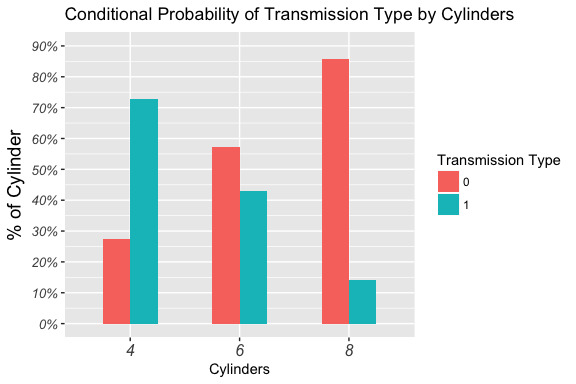
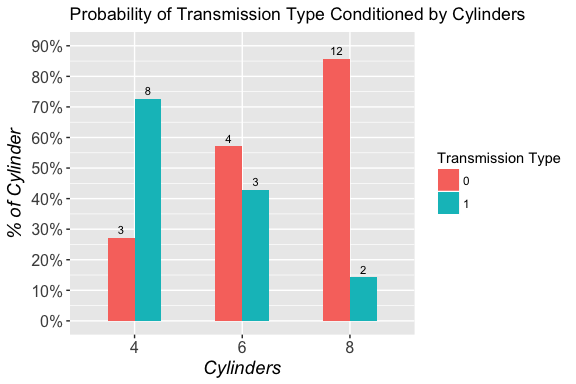
Updated last bar plot.

diff --git a/Graphing_Examples_with_ggplot2.md b/Graphing_Examples_with_ggplot2.md
@@ -11,6 +11,7 @@ January 21, 2018
     -   [Plotting Relative Frequency by Category](#plotting-relative-frequency-by-category)
     -   [Plotting Joint Distributions of 2 Categorical Variables](#plotting-joint-distributions-of-2-categorical-variables)
     -   [Plotting Conditional Distribution of 2 Categorical Variables](#plotting-conditional-distribution-of-2-categorical-variables)
+    -   [Make the plot Presentable](#make-the-plot-presentable)
     -   [Plots for many categories](#plots-for-many-categories)
 
 Introduction
@@ -25,10 +26,10 @@ The grammar of graphics philosophy is largely inspired by the book **Grammar of 
 
 [Rick Scavetta](https://twitter.com/rick_scavetta?lang=en) in his course [Data visualisation with ggplot2](https://www.datacamp.com/courses/data-visualization-with-ggplot2-1) provides a great outline of major ggplot grammatical components to consider when designing a statistical graph. The grammar of graphics is basically composed of 2 principles:
 
-1.  Graphics are distinct layers of **grammatical elements** (ex. the data, geometries). These are like the adjectives and nouns of a language.
+1.  Graphs are distinct layers of **grammatical elements**.The data and geometric shapes applied to them are like the nouns and adjectives of the grammar of graphics.
 2.  Useful plots are built around appropriate **aesthetic mappings**. These mappings are like the rules for assembling the graphical vocabulary into something meaningful.
 
-According to Scavetta, there are 7 grammatical elements. The first 3 are essential for any plot to render. The latter 4 are optional, but enable better fine tuning of the nuances of the plot.
+There are 7 grammatical elements. The first 3 are essential for any plot using `ggplot2` to render. The last 4 are optional, but enable important customization and tweaking of plots.
 
 <table class="table table-striped table-hover" style="margin-left: auto; margin-right: auto;">
 <thead>
@@ -188,41 +189,14 @@ cars %>%
         geom_bar(stat = "identity")
 ```
 
-Having mapped the data to some aesthetics and a bar geometric figure, some other things you might want to fidget like detailed aesthetics, coordinates, themes (these are to show how the grammatical elements combine together). These aren't necessarily good ways to do a plot, but examples of how you can refine it using the grammatical elements of `ggplot2`.
-
--   add a title
--   re-arrange bars in ascending or descending order
--   change the width of the bars
--   change the scale of the y-axis to count up to 20, by 5.
--   flip the x-axis scale to be at the top of the graph.
--   Remove the x-axis title label. The boss is strange, doesn't seem to want an axis title here.
--   change size of axis titles. Say the boss likes size 14 axis titles!
--   change the style of of axis labels to italic and size 12 tick mark labels!
--   Say the boss wants the x-axis tick labels to be in red.
--   flip the coordinates so the bars are horizontal
-
-``` r
-ggplot(cars, aes(x = forcats::fct_infreq(factor(cyl)))) + # change order of bars with fct_infreq from forcats. 
-    geom_bar(width = .5) + # default bar width = 0.9
-    labs(x = NULL,
-         title = "Car Frequency by Cylinder type") +
-    scale_y_continuous(limits = c(0, 20), breaks = seq(0, 20, 5)) +
-    scale_x_discrete(position = "top") +
-    theme(axis.title.y = element_text(size = 14)) +
-    theme(axis.text.y = element_text(face = "italic", size = 12)) +
-    theme(axis.text.x = element_text(face = "italic", size = 12, color = "darkred")) +
-    coord_flip()
-```
-
-![](Graphing_Examples_with_ggplot2_files/figure-markdown_github/unnamed-chunk-6-1.png)
-
 ### Plotting Relative Frequency by Category
 
-We'll digress from the above and continue to develop the original plot's aesthetics, let's loook at:
+To continue to develop the plot to describe the data, let's loook at:
 
 -   relative frequency of cylinders instead of nominal frequency
--   let's convert the y-axis scales to percent instead of proportion
+-   convert the y-axis scales to percent instead of proportion
 -   update the y-axis label
+-   shorten the width of the bars to reduce unnecessary ink
 
 ``` r
 ggplot(cars, aes(x = forcats::fct_infreq(factor(cyl)), 
@@ -234,7 +208,7 @@ ggplot(cars, aes(x = forcats::fct_infreq(factor(cyl)),
     scale_y_continuous(labels = scales::percent) # from scales library
 ```
 
-![](Graphing_Examples_with_ggplot2_files/figure-markdown_github/unnamed-chunk-7-1.png)
+![](Graphing_Examples_with_ggplot2_files/figure-markdown_github/unnamed-chunk-6-1.png)
 
 The following code generates identical plot as above, but pre-processes the relative frequencies earlier in a new data frame outside of `ggplot2`. This coded is provided as an alternative, but neither way is better than the other. It's all a personal preference and shows some of the flexibility of the library's interface.
 
@@ -253,7 +227,7 @@ cars %>%
         scale_y_continuous(labels = scales::percent) 
 ```
 
-![](Graphing_Examples_with_ggplot2_files/figure-markdown_github/unnamed-chunk-8-1.png)
+![](Graphing_Examples_with_ggplot2_files/figure-markdown_github/unnamed-chunk-7-1.png)
 
 ### Plotting Joint Distributions of 2 Categorical Variables
 
@@ -296,7 +270,7 @@ ggplot(cars, aes(x = forcats::fct_infreq(factor(cyl)),
     scale_y_continuous(labels = scales::percent) 
 ```
 
-![](Graphing_Examples_with_ggplot2_files/figure-markdown_github/unnamed-chunk-10-1.png)
+![](Graphing_Examples_with_ggplot2_files/figure-markdown_github/unnamed-chunk-9-1.png)
 
 We have a vizualization of the joint distribution of the relative frequency cars by cylinder and transmission type. One problem with **stacking** the transmission types on top each other (the default) may be that it's hard to understand the % of manual transmission cars by cylinder (because they start above 0% position on y-axis). So a couple refinements to make:
 
@@ -311,12 +285,12 @@ ggplot(cars, aes(x = forcats::fct_infreq(factor(cyl)),
     labs(x = "Cylinders",
          y = "Percentage",
          fill = "Transmission Type", # changed the label of legend.
-         title = "Percentage of Cars by Cylinder and transmission type",
-         subtitle = "as a % of total cars") +
+         title = "% of Total Cars by Cylinder and transmission type",
+         subtitle = "joint probability distribution") +
     scale_y_continuous(labels = scales::percent) 
 ```
 
-![](Graphing_Examples_with_ggplot2_files/figure-markdown_github/unnamed-chunk-11-1.png) Note that I also changed the label of the legend in the code from its default to be more descriptive.
+![](Graphing_Examples_with_ggplot2_files/figure-markdown_github/unnamed-chunk-10-1.png) Note that I also changed the label of the legend in the code from its default to be more descriptive.
 
 The above effectively plots the [joint distribution](https://en.wikipedia.org/wiki/Joint_probability_distribution) of Cylinders vs. Transmission. It's the same representation as this table.
 
@@ -350,6 +324,8 @@ round(prop.table(table(cylinders = cars$cyl, transmission = cars$am), margin = 1
 
 We can convert these conditional probabilities above into a dataframe in a couple different ways, and then pass them into our ggplot. **Version1** converts a prop.table into a dataframe. **Version2** wrangles the data in `dplyr` first and passes the conditional frequencies into the plot.
 
+Note also that plot elements can be assigned to objects.
+
 ``` r
 # demonstration. Not used for plot. 
 version1 <- data.frame(prop.table(table(cars$cyl, cars$am), margin = 1), 2) %>%
@@ -378,23 +354,49 @@ version2
     6     8     1     2     0.1428571
 
 ``` r
-ggplot(version2, aes(x = factor(cyl), 
+plot <- ggplot(version2, aes(x = factor(cyl), 
                      y = relative_freq,
                      fill = factor(am))) + 
     geom_bar(stat = "identity", width = .5, position = "dodge") +
     labs(x = "Cylinders",
          y = "% of Cylinder",
          fill = "Transmission Type", # changed the label of legend.
-         title = "Conditional Probability of Transmission Type by Cylinders") +
+         title = "Probability of Transmission Type Conditioned by Cylinders")
+plot
+```
+
+![](Graphing_Examples_with_ggplot2_files/figure-markdown_github/unnamed-chunk-13-1.png)
+
+### Make the plot Presentable
+
+You may want to modify other aesthetics, coordinates, themes (these are to show how the grammatical elements combine together) to make the graph fit your needs. Here are a few examples of how you can refine your plot using some of the other grammatical elements of `ggplot2`.
+
+-   add labels of the nominal frequencies on top of each bar.
+-   change the scale of the y-axis to be percentage instead of proportion.
+-   change the scale of the y-axis to go from 0 - 90% by 10% tickmarks.
+-   change size of axis titles to be larger than defaults.
+-   change the style of of axis titles to be italic.
+-   change the size of the tick mark labels to be larger than defaults.
+
+``` r
+plot +
+    geom_text(aes(label = freq), 
+              position = position_dodge(width = 0.5), # adjusts the horizontal position of text.
+              stat= "identity", 
+              size = 3,
+              vjust = -0.5) +
     scale_y_continuous(labels = scales::percent, limits = c(0, .9), breaks = seq(0, .9, .1)) +
-    theme(axis.title.y = element_text(size = 14)) +
-    theme(axis.text.y = element_text(face = "italic", size = 10)) +
-    theme(axis.text.x = element_text(face = "italic", size = 12))
+    theme(axis.title.y = element_text(face = "italic", size = 14)) +
+    theme(axis.title.x = element_text(face = "italic", size = 14)) +
+    theme(axis.text.y = element_text(size = 12)) +
+    theme(axis.text.x = element_text(size = 12)) 
 ```
 
 ![](Graphing_Examples_with_ggplot2_files/figure-markdown_github/unnamed-chunk-14-1.png)
 
-By wrangling and plotting conditional probabilities, we see a clear visual, somewhat linear relationship between cylinder type and transmission type for the cars in the dataset. The more cylinders there are in the car, the more likely the car was to have a manual transmission.
+Now that we have a final plot, the conditional probability distribution of transmission type by cylinder type lets us understand that when the car has an 8-cylinder engine, 85% of the time it's a manual transmission.
+
+By wrangling and plotting conditional probabilities, we see a clear visual, somewhat linear relationship between cylinder type and transmission type for the cars in the dataset. The more cylinders there are in the car, the more likely the car is to have a manual transmission.
 
 ### Plots for many categories
 
